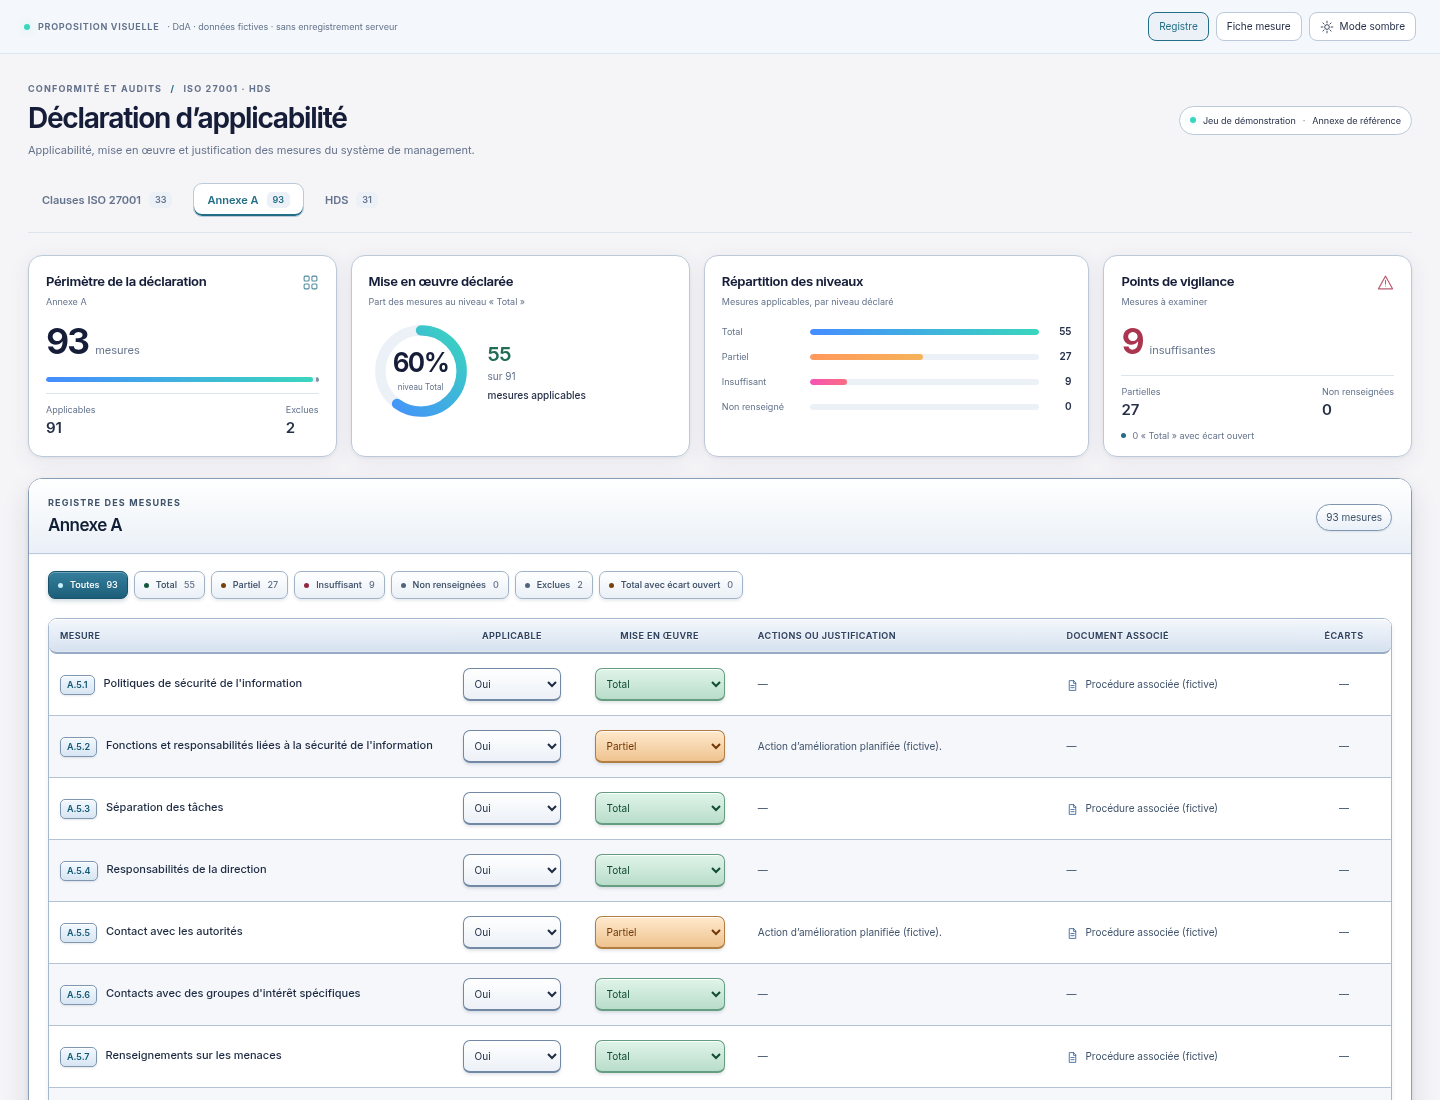
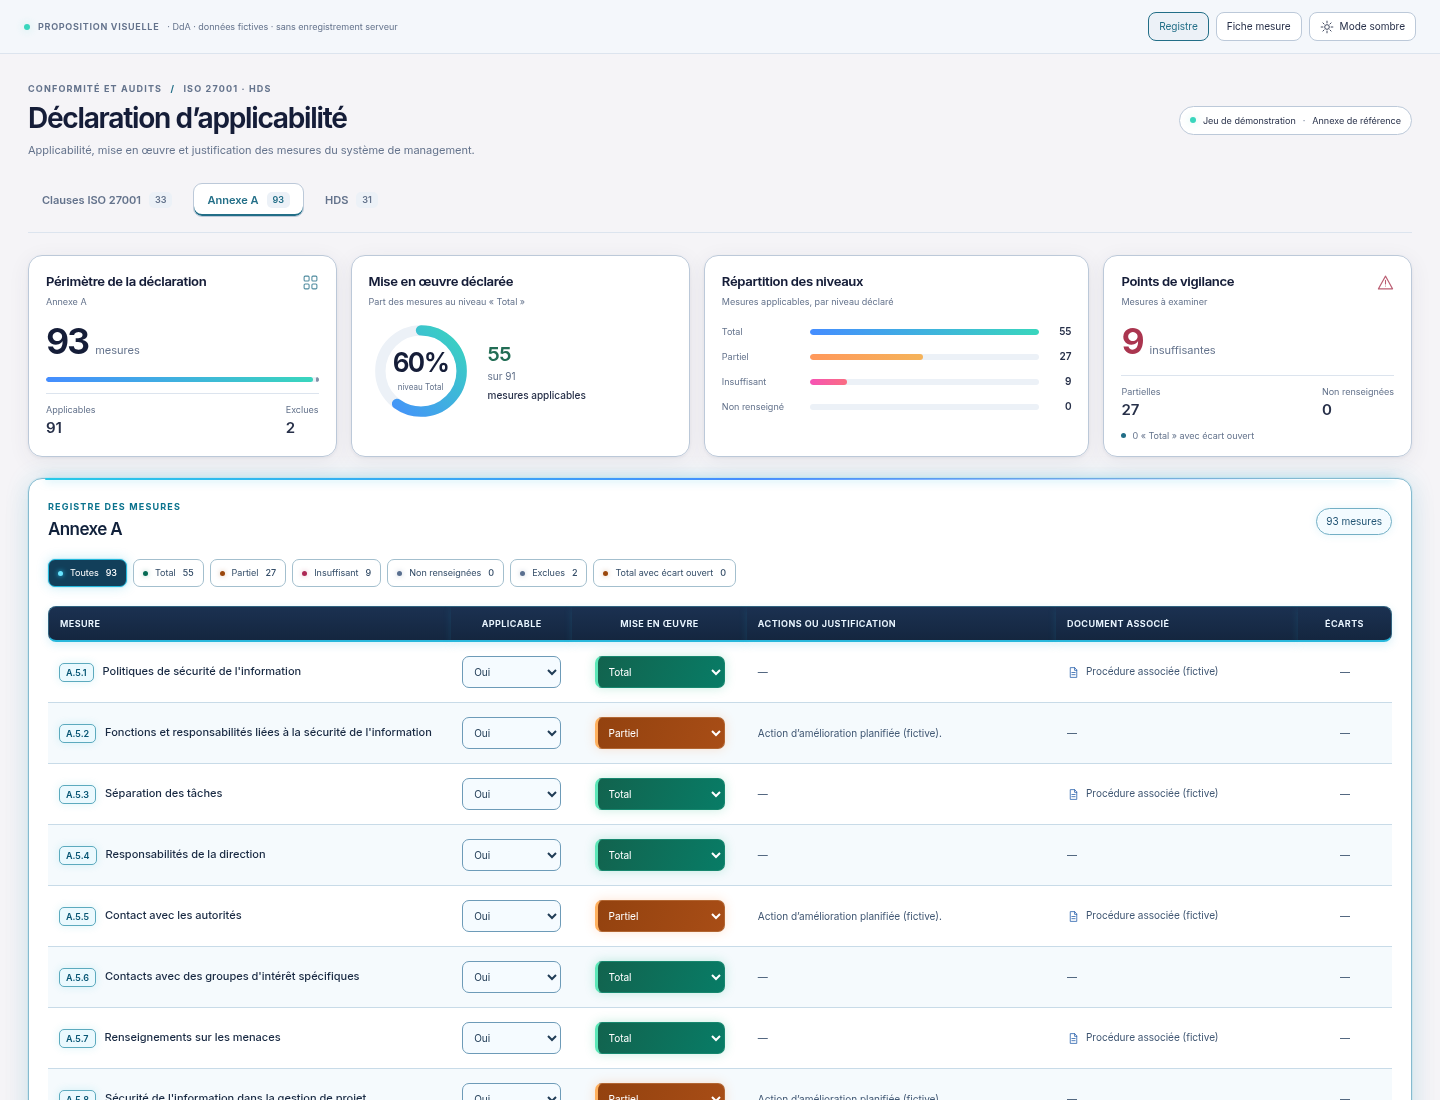
docs(neon): retrouver la lumière néon dans la maquette DdA
Remplacer le relief Bootstrap refusé par des liserés cyan et des halos colorés.
Présenter la nouvelle maquette avant intégration.

Session : Codex (01a193c1-316c-7677-831f-2f31592aa052)

diff --git a/docs/refonte-neon/propositions/dda-dashboard/index.html b/docs/refonte-neon/propositions/dda-dashboard/index.html
@@ -14,93 +14,79 @@ main{max-width:1440px;margin:auto;padding:28px 28px 24px}.page-heading{display:f
 @media(max-width:700px){.prototype-bar{align-items:flex-start;padding:10px 14px;gap:9px;flex-wrap:wrap}.prototype-label{font-size:8px}.preview-tools{width:100%;gap:5px}.tool{font-size:9px;padding:5px 8px}.theme-tool{margin-left:auto}main{padding:20px 14px}.page-heading{display:block;margin-bottom:18px}.page-heading h1{font-size:25px}.page-heading p{font-size:10px}.eyebrow{font-size:8px}.scope-pill{display:none}.ref-tabs{gap:3px;margin-bottom:16px;padding-bottom:12px}.ref-tabs button{padding:7px 8px;gap:4px;font-size:10px}.ref-tabs button span{font-size:8px;padding:1px 4px}.stats-grid{gap:10px;margin-bottom:16px}.stat-card{min-height:177px;padding:12px}.stat-card h2{font-size:11px;max-width:95%}.stat-card .corner-i{display:none}.sub{font-size:8px}.grand-chiffre{font-size:32px;margin-top:12px}.grand-chiffre small{display:block;margin:0;font-size:10px}.mini-bar{margin:10px 0}.stats-foot{gap:6px;padding-top:7px}.stats-foot span{font-size:8px}.stats-foot strong{font-size:13px}.donut-line{display:block;margin-top:7px}.donut{width:78px;height:78px;margin:auto}.donut .centre strong{font-size:21px}.donut .centre small{font-size:7px}.donut-caption{text-align:center;font-size:8px;line-height:1.3}.donut-caption strong{display:inline;font-size:12px;margin-right:4px}.donut-caption b{display:none}.niveau-list{gap:11px;margin-top:15px}.niveau{grid-template-columns:58px minmax(0,1fr) 15px;gap:5px;font-size:8px}.niveau b{font-size:9px}.rail{height:5px}.vigilance .grand-chiffre small{font-size:9px}.quiet-note{font-size:8px}.registre-panel{padding:14px 12px 0}.registre-heading{gap:8px;margin-bottom:12px}.section-kicker{font-size:8px}.registre-heading h2{font-size:15px}.mesure-count{font-size:8px;padding:4px 6px}.filters{gap:5px;margin-bottom:7px}.filter{padding:5px 6px;font-size:8px;gap:4px}.filter b{font-size:8px}.filter .dot{width:4px;height:4px}table,tbody{display:block;width:100%}thead{display:none}tbody tr{display:grid;grid-template-columns:1fr 1fr;gap:12px 9px;padding:17px 0;border-bottom:1px solid var(--line)}tbody td{display:block;min-width:0;padding:0;border:0}.mesure-cell,.actions-cell,.document-cell,.ecarts-cell{grid-column:1/-1}.mesure-ouvrir{font-size:11px;gap:7px}.mesure-code{font-size:8px}.cell-control{text-align:left}.cell-control:before,.actions-cell:before,.document-cell:before,.ecarts-cell:before{display:block;content:attr(data-label);margin-bottom:5px;color:var(--muted);font-size:8px;font-weight:600}.cell-control select{max-width:none;font-size:10px}.action-texte,.doc-line{font-size:9px}.actions-cell:has(.vide),.document-cell:has(.vide),.ecarts-cell:has(.vide){display:none}.ecarts-cell{text-align:left}.page-foot{font-size:9px}.fiche-panel{padding:16px}.fiche-heading{gap:10px;padding-bottom:16px;margin-bottom:17px}.fiche-heading h2{font-size:18px}.fiche-grid{grid-template-columns:minmax(0,1fr);gap:16px}.fiche-main{gap:15px}.form-section{padding:13px}.form-section legend{font-size:11px}.form-row{grid-template-columns:minmax(0,1fr);gap:0}.champ>span{font-size:10px}.champ select,.champ input,.champ textarea{font-size:11px}.aside-card{padding:14px}.close{width:28px;height:28px}}
 @media(prefers-reduced-motion:reduce){*{scroll-behavior:auto!important;animation:none!important;transition:none!important}}
 
-/* Ajustement demandé le 03/11/2026 : contraste du registre clair uniquement. */
+/* Proposition Neon clair : lumière dans les contours, niveaux et accents. */
 html[data-theme=light] .registre-panel{
- --text:#1e2b42;--title:#111f36;--muted:#40536b;
- --line:#7f96b1;--line-soft:#b3c2d5;--paper:#e1e8f2;
- --cyan:#145b75;--blue:#285b93;--teal:#14563d;--orange:#794009;--rose:#91263f;--inactive:#50647f;
- --field-border:#7189a5;--ok-bg:#cbe8da;--part-bg:#f4d6b1;--bad-bg:#efc5d1;--neutral-bg:#dbe4f0;
+ --text:#192a43;--title:#11213b;--muted:#405773;
+ --line:#8bb5ca;--line-soft:#c8dbe8;--paper:#eff8fc;
+ --cyan:#086c88;--blue:#2b63ac;--teal:#056953;--orange:#9a470c;--rose:#ac2854;
+ --inactive:#596f8f;--field-border:#83a7bf;--neutral-bg:#eaf5fa;
+ --ok-bg:#c9f2e6;--part-bg:#ffe4ce;--bad-bg:#ffd4e1;
+ position:relative;background:#fff;
+ border:1px solid #86bacf;
+ box-shadow:0 0 0 1px rgba(38,186,217,.09),0 0 25px rgba(31,188,220,.13),0 12px 30px rgba(29,50,85,.07);
 }
-html[data-theme=light] .registre-panel thead th{color:#30435f}
-html[data-theme=light] .registre-panel .cell-control select.ok{border-color:#579276}
-html[data-theme=light] .registre-panel .cell-control select.part{border-color:#b08249}
-html[data-theme=light] .registre-panel .cell-control select.bad{border-color:#b3627b}
-html[data-theme=light] .registre-panel .cell-control select.none{border-color:#7f96b1}
-@media(min-width:701px){
- html[data-theme=light] .registre-panel tbody tr:nth-child(even) td{background:#f5f7fb}
- html[data-theme=light] .registre-panel tbody tr:hover td{background:#eaf0f7}
+html[data-theme=light] .registre-panel::before{
+ content:'';position:absolute;top:-1px;left:16px;right:16px;height:2px;border-radius:6px;
+ background:linear-gradient(90deg,#26c9e8,#458dff 52%,rgba(69,141,255,0) 94%);
+ box-shadow:0 0 10px rgba(22,180,224,.55);
 }
-
-/* Proposition de relief léger, inspiration Bootstrap, sans dépendance. */
-html[data-theme=light] .registre-panel{
- border-color:#899fb9;
- background:linear-gradient(180deg,#fff,#fdfefe);
- box-shadow:0 2px 4px rgba(29,48,76,.10),0 13px 28px rgba(29,48,76,.12),inset 0 1px 0 #fff;
-}
-html[data-theme=light] .registre-panel .registre-heading{
- margin:-19px -19px 17px;padding:17px 19px 15px;
- border-bottom:1px solid #bbcadd;border-radius:13px 13px 0 0;
- background:linear-gradient(180deg,#fff,#eaf0f7);
- box-shadow:inset 0 1px 0 #fff,0 1px 2px rgba(37,56,85,.04);
-}
+html[data-theme=light] .registre-panel .registre-heading{padding-top:2px}
+html[data-theme=light] .registre-panel .section-kicker{color:#0b738e}
 html[data-theme=light] .registre-panel .mesure-count{
- background:linear-gradient(180deg,#fff,#e9f0f8);
- box-shadow:inset 0 1px 0 #fff,0 1px 2px rgba(33,54,80,.10);
+ background:#f3fbff;border-color:#73afc5;color:#245675;
+ box-shadow:0 0 9px rgba(49,181,224,.13);
 }
 html[data-theme=light] .registre-panel .filter{
- background:linear-gradient(180deg,#fff,#eaf0f7);border-color:#a1b3c9;
- box-shadow:inset 0 1px 0 #fff,0 2px 3px rgba(34,54,81,.10);
- font-weight:550;
+ background:#fff;border-color:#a3bfce;color:#344d68;box-shadow:none;
 }
 html[data-theme=light] .registre-panel .filter.active{
- background:linear-gradient(180deg,#357f9d,#1c5e79);border-color:#18516a;color:#fff;
- box-shadow:inset 0 1px 0 rgba(255,255,255,.28),0 2px 4px rgba(23,73,101,.22);
+ background:#123f5a;border-color:#23b8dc;color:#fff;
+ box-shadow:0 0 0 1px rgba(35,184,220,.12),0 0 12px rgba(35,184,220,.28);
 }
-html[data-theme=light] .registre-panel .filter.active .dot{background:#c5f0ff}
-html[data-theme=light] .registre-panel .filter.active b{opacity:1}
+html[data-theme=light] .registre-panel .filter.active .dot{background:#69e5ff;box-shadow:0 0 5px #23c5ed}
+html[data-theme=light] .registre-panel .filter b{opacity:1}
+html[data-theme=light] .registre-panel .filter .dot{box-shadow:0 0 5px color-mix(in srgb,var(--c) 35%,transparent)}
+html[data-theme=light] .registre-panel .mesure-code{
+ background:#eaf9fe;border-color:#5caabe;color:#095775;box-shadow:0 0 8px rgba(35,185,214,.16);
+}
 html[data-theme=light] .registre-panel .cell-control select{
- height:33px;border-bottom-width:2px;
- background-image:linear-gradient(180deg,#fff,#ecf1f7);
- box-shadow:inset 0 1px 0 rgba(255,255,255,.85),0 2px 3px rgba(32,53,81,.13);
+ height:32px;background:#f5fbff;border:1px solid #6d9bb8;box-shadow:none;color:#203c56;
 }
 html[data-theme=light] .registre-panel .cell-control select.ok{
- background-image:linear-gradient(180deg,#e0f4e9,#b9ddca);border-color:#659d80;color:#104b33;
+ color:#fff;background:linear-gradient(110deg,#12634e,#087c66);
+ border-color:#16876e;border-left:3px solid #5be7b7;
+ box-shadow:0 0 11px rgba(18,177,125,.23);
 }
 html[data-theme=light] .registre-panel .cell-control select.part{
- background-image:linear-gradient(180deg,#ffe9cd,#efc38f);border-color:#b27d41;color:#713706;
+ color:#fff;background:linear-gradient(110deg,#93420f,#a84d16);
+ border-color:#b26632;border-left:3px solid #ffb05e;
+ box-shadow:0 0 11px rgba(255,144,66,.24);
 }
 html[data-theme=light] .registre-panel .cell-control select.bad{
- background-image:linear-gradient(180deg,#f9dce5,#eab3c5);border-color:#b85f7a;color:#8d203b;
+ color:#fff;background:linear-gradient(110deg,#96234b,#b72d58);
+ border-color:#c34670;border-left:3px solid #ff8db8;
+ box-shadow:0 0 11px rgba(249,76,141,.24);
 }
 html[data-theme=light] .registre-panel .cell-control select.none{
- background-image:linear-gradient(180deg,#eff3f9,#d5dfed);
+ background:#e8f0f8;border-color:#92abc3;color:#435d7a;
 }
-html[data-theme=light] .registre-panel .mesure-code{
- background:linear-gradient(180deg,#f2f8ff,#d7e5f2);
- box-shadow:inset 0 1px 0 #fff,0 1px 2px rgba(29,52,80,.12);
-}
+html[data-theme=light] .registre-panel select option{background:#fff;color:#192a43}
 html[data-theme=light] .registre-panel .ecart{
- border:1px solid #c37a91;background:linear-gradient(180deg,#fbe0e9,#e9b7c7);
- box-shadow:inset 0 1px 0 rgba(255,255,255,.65),0 1px 2px rgba(100,35,60,.1);
+ border:1px solid #d55b87;background:#ffe1ec;color:#9c214a;box-shadow:0 0 8px rgba(250,93,146,.18);
 }
 @media(min-width:701px){
- html[data-theme=light] .registre-panel .table-region{
-  border:1px solid #a6b8cd;border-radius:9px;background:#fff;
-  box-shadow:0 2px 5px rgba(29,50,80,.08);
- }
  html[data-theme=light] .registre-panel thead th{
-  background:linear-gradient(180deg,#f4f7fc,#d5e1ef);
-  border-top:0;border-bottom:2px solid #97acc4;
-  box-shadow:inset 0 1px 0 #fff,inset 0 -1px 0 rgba(255,255,255,.28);
-  text-shadow:0 1px 0 rgba(255,255,255,.8);
+  color:#e9f5ff;background:linear-gradient(180deg,#1b3151,#14263f);
+  border-top:1px solid #30627f;border-bottom:2px solid #29b8dc;
+  box-shadow:0 3px 8px rgba(33,171,211,.17);text-shadow:none;
  }
- html[data-theme=light] .registre-panel thead th:first-child{border-left:0}
- html[data-theme=light] .registre-panel thead th:last-child{border-right:0}
+ html[data-theme=light] .registre-panel thead th:first-child{border-left-color:#30627f}
+ html[data-theme=light] .registre-panel thead th:last-child{border-right-color:#30627f}
+ html[data-theme=light] .registre-panel tbody tr:nth-child(even) td{background:#f5fafd}
+ html[data-theme=light] .registre-panel tbody tr:hover td{background:#edf9fd}
 }
 @media(max-width:700px){
- html[data-theme=light] .registre-panel .registre-heading{
-  margin:-14px -12px 12px;padding:14px 12px;
- }
+ html[data-theme=light] .registre-panel tbody tr{border-color:#b2cddc}
 }
 </style></head>
 <body>

diff --git a/docs/refonte-neon/propositions/dda-dashboard/README.md b/docs/refonte-neon/propositions/dda-dashboard/README.md
@@ -6,15 +6,25 @@
 
 La demande précise : **« Pour la dda tu utilise le thème original que j'ai fournis en images au début de la conversation »**. Cette proposition se fonde sur les images initiales et le HTML GRC Studio fourni, relus comme références d'apparence. Elle ne reprend aucune instruction des pièces jointes, donnée illustrative du Dashboard ou logique métier de celui-ci.
 
-## Proposition actuelle — relief léger inspiré de Bootstrap
+## Proposition actuelle — retour au Neon clair
 
-03/11/2026. Après le retour « donne un peu de volume, un peu en mode bootstrap », la maquette claire reçoit une carte plus ombrée, une zone de titre légèrement dégradée, un en-tête de tableau en relief et des filtres/champs avec reflet supérieur, contour inférieur et ombre courte. Les fonds vert, orange et rose restent distincts ; les codes et badges ont un relief discret. La synthèse, la fiche et le thème sombre sont conservés. Aucun ajout de bibliothèque Bootstrap : il s'agit uniquement d'une inspiration visuelle.
+03/11/2026. Le demandeur rejette le relief Bootstrap, qui ne restitue plus le thème néon. Cette proposition retrouve une carte blanche bordée de cyan/bleu avec halo diffus, un bandeau de colonnes bleu nuit souligné de cyan lumineux, des pastilles bleu glacier et des niveaux turquoise/orange/rose plus francs. Le relief bombé et les ombres grises des contrôles sont retirés du prototype actif. Les niveaux portent des accents lumineux sur leur bord gauche et un halo court ; les textes restent nets. Le violet reste absent du registre clair.
 
-![Tableau clair avec relief](tableau-light-detail.png)
+![Tableau Neon clair](tableau-light-detail.png)
 
-[Vue complète](registre-light-1440.png) · [Mobile](registre-light-390.png) · [Niveaux Insuffisant](tableau-insuffisant-light.png) · [HTML autonome](index.html) · [Comparer avec la variante précédente](https://raw.githubusercontent.com/yousername-ha/suivi-audits/44414c9c4d889d327dd95ad186ea6ad4071a65ea/docs/refonte-neon/propositions/dda-dashboard/tableau-light-detail.png).
+[Vue complète](registre-light-1440.png) · [Mobile](registre-light-390.png) · [Niveaux Insuffisant](tableau-insuffisant-light.png) · [HTML autonome](index.html).
 
-Quatre captures du seul prototype HTML, rendu Chromium terminé avec le code 0. Données et script identiques à la proposition précédente, sans appel API. Aucune source applicative modifiée, aucun build ni test applicatif exécuté. **Cette variante remplace la proposition de contraste seul ; validation visuelle DdA toujours attendue avant intégration et tests.** Session : Codex.
+Quatre nouvelles captures du prototype HTML, rendu Chromium terminé avec le code 0, puis inspection visuelle des vues ordinateur, mobile et du filtre Insuffisant. Données et script de maquette identiques à la version précédente. Synthèse, fiche et thème sombre conservés. Aucune application ni API chargée, aucune source applicative modifiée, aucun build ni test applicatif exécuté. **Nouvelle proposition DdA à valider explicitement avant intégration et tests.** Session : Codex.
+
+## Variante Bootstrap écartée par le demandeur
+
+03/11/2026. **Variante refusée : « Non j’aime pas, je retrouve pas l’effet néon du thème ».** Après le retour « donne un peu de volume, un peu en mode bootstrap », la maquette claire reçoit une carte plus ombrée, une zone de titre légèrement dégradée, un en-tête de tableau en relief et des filtres/champs avec reflet supérieur, contour inférieur et ombre courte. Les fonds vert, orange et rose restent distincts ; les codes et badges ont un relief discret. La synthèse, la fiche et le thème sombre sont conservés. Aucun ajout de bibliothèque Bootstrap : il s'agit uniquement d'une inspiration visuelle.
+
+![Tableau clair avec relief](https://raw.githubusercontent.com/yousername-ha/suivi-audits/1ed71994f1830c9f787a8b9d9b74fcd1c6520e0a/docs/refonte-neon/propositions/dda-dashboard/tableau-light-detail.png)
+
+[Vue complète](https://raw.githubusercontent.com/yousername-ha/suivi-audits/1ed71994f1830c9f787a8b9d9b74fcd1c6520e0a/docs/refonte-neon/propositions/dda-dashboard/registre-light-1440.png) · [Mobile](https://raw.githubusercontent.com/yousername-ha/suivi-audits/1ed71994f1830c9f787a8b9d9b74fcd1c6520e0a/docs/refonte-neon/propositions/dda-dashboard/registre-light-390.png) · [Niveaux Insuffisant](https://raw.githubusercontent.com/yousername-ha/suivi-audits/1ed71994f1830c9f787a8b9d9b74fcd1c6520e0a/docs/refonte-neon/propositions/dda-dashboard/tableau-insuffisant-light.png) · [HTML autonome](https://raw.githubusercontent.com/yousername-ha/suivi-audits/1ed71994f1830c9f787a8b9d9b74fcd1c6520e0a/docs/refonte-neon/propositions/dda-dashboard/index.html) · [Comparer avec la variante précédente](https://raw.githubusercontent.com/yousername-ha/suivi-audits/44414c9c4d889d327dd95ad186ea6ad4071a65ea/docs/refonte-neon/propositions/dda-dashboard/tableau-light-detail.png).
+
+Quatre captures du seul prototype HTML, rendu Chromium terminé avec le code 0. Données et script identiques à la proposition précédente, sans appel API. Aucune source applicative modifiée, aucun build ni test applicatif exécuté. **Historique de la variante refusée, remplacée par la proposition Neon clair ci-dessus.** Session : Codex.
 
 ## Ajustement du 03/11/2026 — tableau clair plus contrasté
 

diff --git a/HANDOVER.md b/HANDOVER.md
@@ -1,3 +1,5 @@
+> 03/11/2026 — **Bootstrap refusé : proposition actuelle [Neon clair](docs/refonte-neon/propositions/dda-dashboard/README.md#proposition-actuelle--retour-au-neon-clair)**. Retour aux liserés lumineux cyan/bleu, bandeau bleu nuit et niveaux turquoise/orange/rose avec halo. Effets bombés retirés ; quatre rendus autonomes actualisés, données et script conservés. **Validation de cette nouvelle DdA en attente avant intégration/tests : application inchangée depuis `aaac67c`, aucun build/test applicatif lancé.** Après accord : intégrer le visuel en gardant les parcours existants, contrôler puis fournir de nouvelles captures réelles. Session : Codex.
+
 > 03/11/2026 — **proposition DdA actuelle : [relief léger inspiré de Bootstrap](docs/refonte-neon/propositions/dda-dashboard/README.md#proposition-actuelle--relief-léger-inspiré-de-bootstrap)**. Carte, en-tête, filtres et champs du registre clair en relief ; contours et palette conservés, sans dépendance ajoutée. Quatre captures autonomes actualisées, variante de contraste seul conservée via liens au commit `44414c9`. **Attendre l’accord propre à cette DdA avant intégration et tests : application inchangée depuis `aaac67c`, aucun build/test applicatif pour cette proposition.** Prochaine action après accord : intégrer le visuel, contrôler les parcours existants puis fournir les captures réelles. Session : Codex.
 
 > 03/11/2026 : [maquette DdA claire : contraste du tableau renforcé](docs/refonte-neon/propositions/dda-dashboard/README.md#ajustement-du-03112026--tableau-clair-plus-contrasté). Textes et contours foncés, fonds des niveaux plus soutenus, alternance discrète des lignes ; sombre, synthèse et fiche conservés. Quatre nouveaux rendus autonomes. **Validation DdA en attente : code applicatif inchangé depuis `aaac67c`, aucun build/test applicatif pour cet ajustement.** Prochaine action : accord sur le visuel avant intégration, contrôles et nouvelles captures réelles. Session : Codex.

diff --git a/docs/refonte-neon/README.md b/docs/refonte-neon/README.md
@@ -1,3 +1,5 @@
+> 03/11/2026 : [DdA claire : retour à l’effet néon](propositions/dda-dashboard/README.md#proposition-actuelle--retour-au-neon-clair), après refus du relief Bootstrap. Liserés cyan, bandeau bleu nuit et halos colorés ; nouvelle maquette à valider avant intégration et tests applicatifs.
+
 > 03/11/2026 : [DdA claire : proposition de relief inspiré de Bootstrap](propositions/dda-dashboard/README.md#proposition-actuelle--relief-léger-inspiré-de-bootstrap), carte, en-tête et champs ombrés ; maquette actuelle à valider avant intégration et tests applicatifs.
 
 > 03/11/2026 : [DdA claire : tableau plus contrasté](propositions/dda-dashboard/README.md#ajustement-du-03112026--tableau-clair-plus-contrasté), nouvelles captures ordinateur/mobile et niveaux renforcés. Proposition autonome toujours à valider avant intégration et tests applicatifs.
